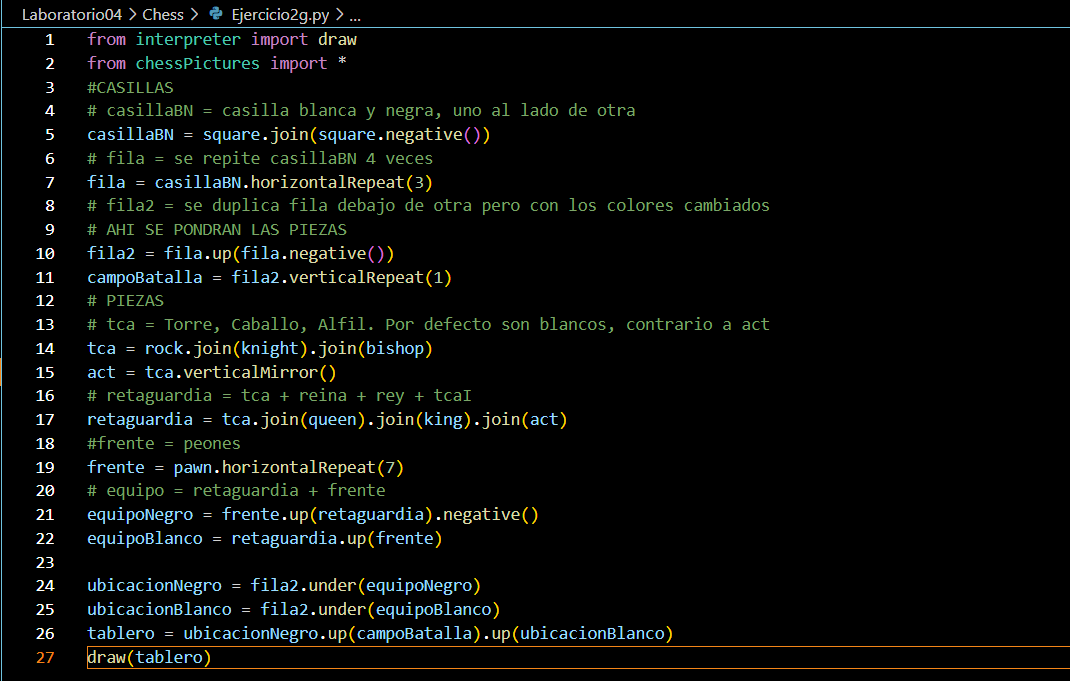
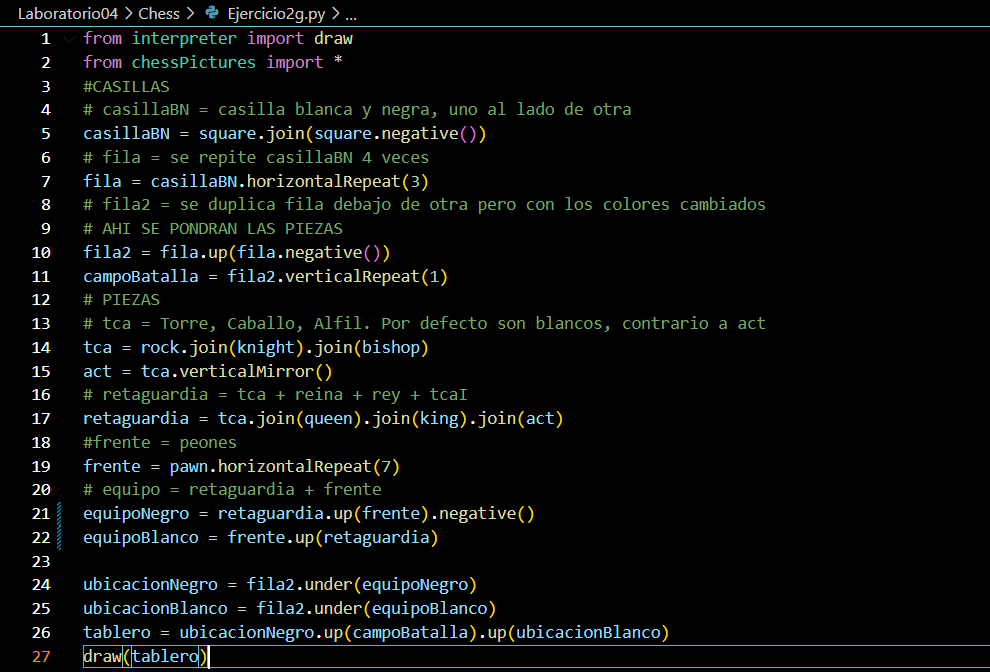
correccion en imagen

Changed region(s): [[0.0, 0.0, 1.0, 1.0]]

diff --git a/Laboratorio04/Chess/Ejercicio2g.py b/Laboratorio04/Chess/Ejercicio2g.py
@@ -18,8 +18,8 @@ retaguardia = tca.join(queen).join(king).join(act)
 #frente = peones
 frente = pawn.horizontalRepeat(7)
 # equipo = retaguardia + frente
-equipoNegro = frente.up(retaguardia).negative()
-equipoBlanco = retaguardia.up(frente)
+equipoNegro = retaguardia.up(frente).negative()
+equipoBlanco = frente.up(retaguardia)
 
 ubicacionNegro = fila2.under(equipoNegro)
 ubicacionBlanco = fila2.under(equipoBlanco)
